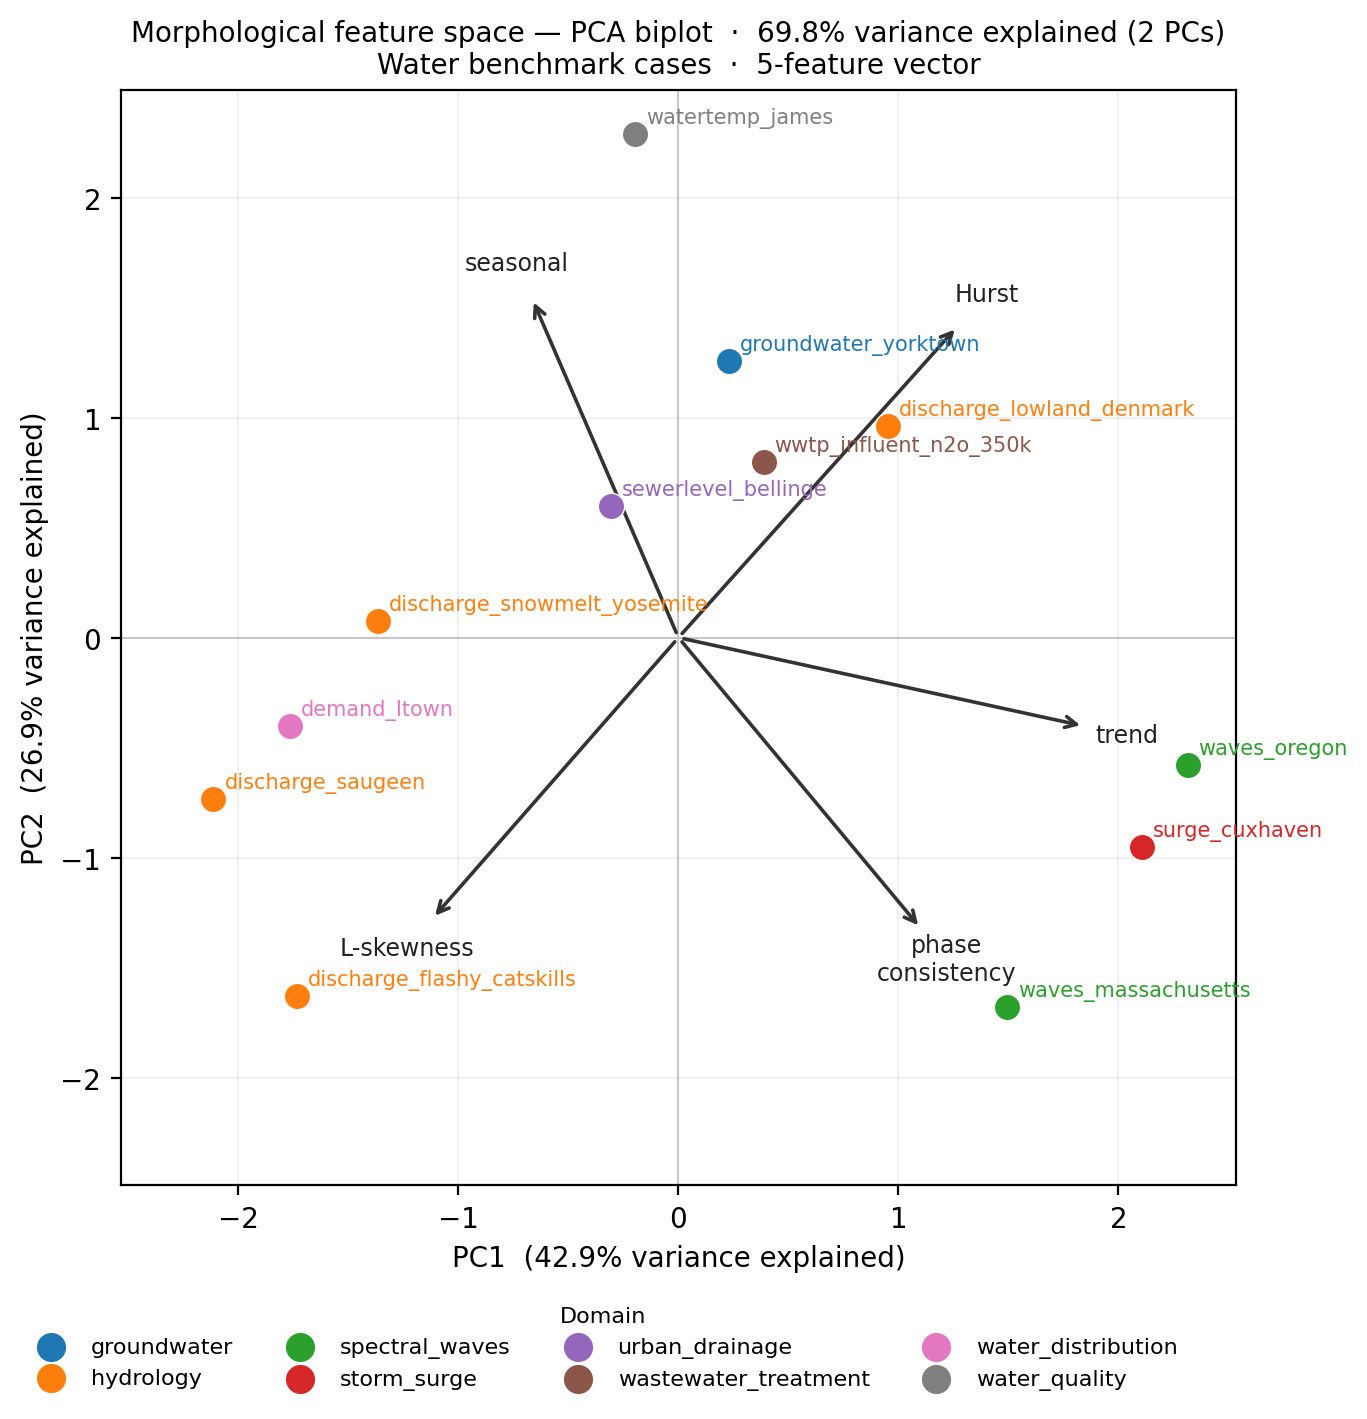
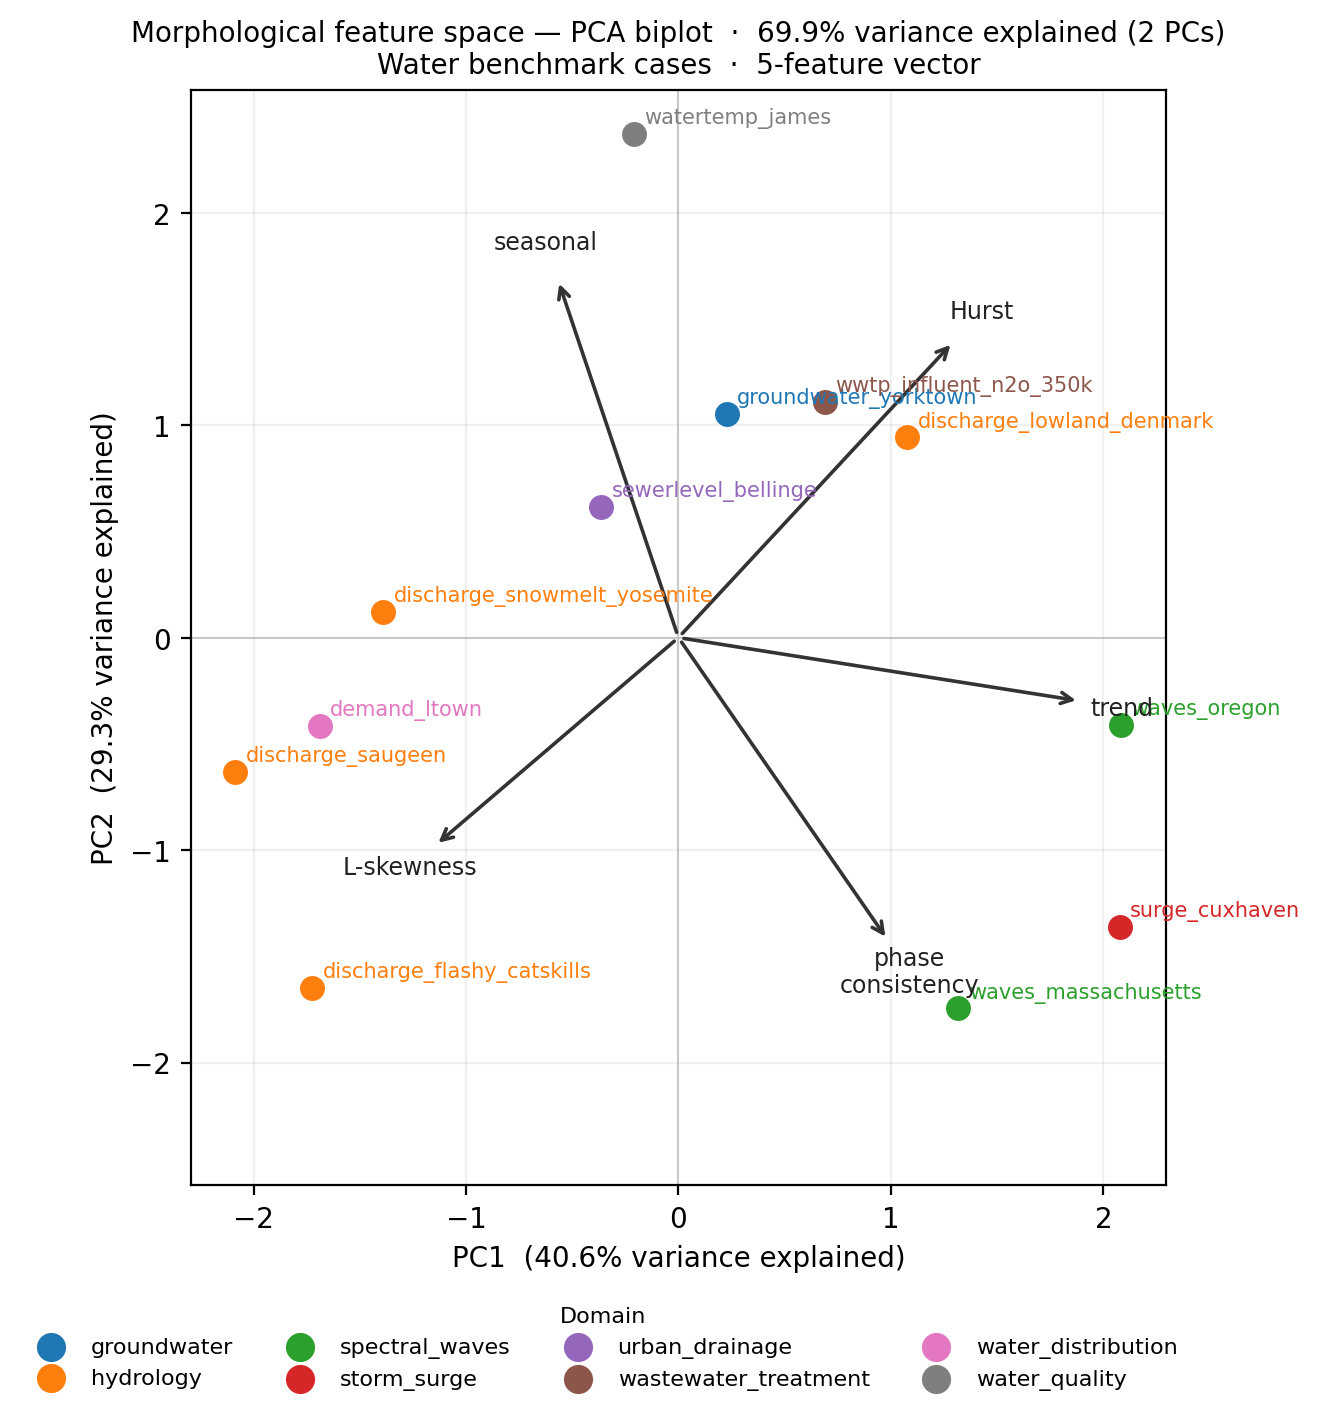
Redo pca_biplot

diff --git a/src/tsforecastbench/morphology/features.py b/src/tsforecastbench/morphology/features.py
@@ -1,8 +1,8 @@
 """Morphological feature vector for time series characterisation.
 
-Six core features are computed by ``compute_features``; thirteen candidate
-features (core + extended) are computed by ``compute_features_all`` and used
-for the feature-selection analysis in ``notebooks/feature_selection.py``.
+The working 5-feature vector (seasonal_strength, hurst, trend_strength,
+phase_consistency, l_skewness) is assembled by ``compute_morphology.py``
+from the full 13-candidate set returned by ``compute_features_all``.
 All functions are stateless and independently importable.
 """
 
@@ -284,40 +284,6 @@ def zero_proportion(y: np.ndarray, threshold: float | None = None) -> float:
         threshold = max(1e-6, 0.01 * p95)
     return float(np.mean(y <= threshold))
 
-
-def compute_features(
-    y: np.ndarray,
-    period: int,
-    seasonal_periods: list[int] | None = None,
-) -> dict[str, float]:
-    """Compute the full 6-feature morphological vector.
-
-    Parameters
-    ----------
-    y:
-        Clean (NaN-free) 1-D array of the target variable at native frequency.
-    period:
-        Primary seasonality period in steps (see ``period_for_freq``). Used by
-        trend_strength and all STL-based features except seasonal_strength.
-    seasonal_periods:
-        Candidate periods for seasonal_strength (see ``seasonal_periods_for_freq``).
-        Defaults to ``[period]`` when omitted (backward-compatible).
-
-    Returns
-    -------
-    dict with keys: acf1, trend_strength, seasonal_strength,
-    spectral_entropy, boxcox_lambda, kurtosis.
-    """
-    if seasonal_periods is None:
-        seasonal_periods = [period]
-    return {
-        "acf1": acf1(y),
-        "trend_strength": trend_strength(y, period),
-        "seasonal_strength": seasonal_strength(y, seasonal_periods),
-        "spectral_entropy": spectral_entropy(y),
-        "boxcox_lambda": boxcox_lambda(y),
-        "kurtosis": excess_kurtosis(y),
-    }
 
 
 def compute_features_all(

diff --git a/src/tsforecastbench/morphology/__init__.py b/src/tsforecastbench/morphology/__init__.py
@@ -1,5 +1,5 @@
 """Morphological characterisation of time series."""
 
-from tsforecastbench.morphology.features import compute_features, period_for_freq
+from tsforecastbench.morphology.features import compute_features_all, period_for_freq
 
-__all__ = ["compute_features", "period_for_freq"]
+__all__ = ["compute_features_all", "period_for_freq"]
